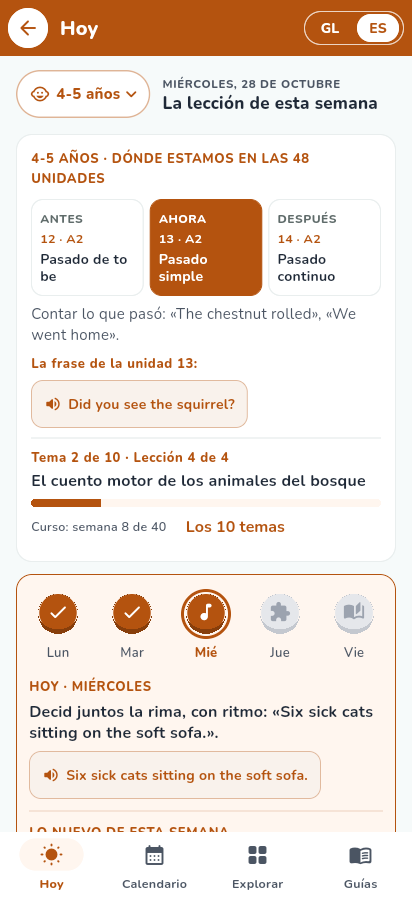
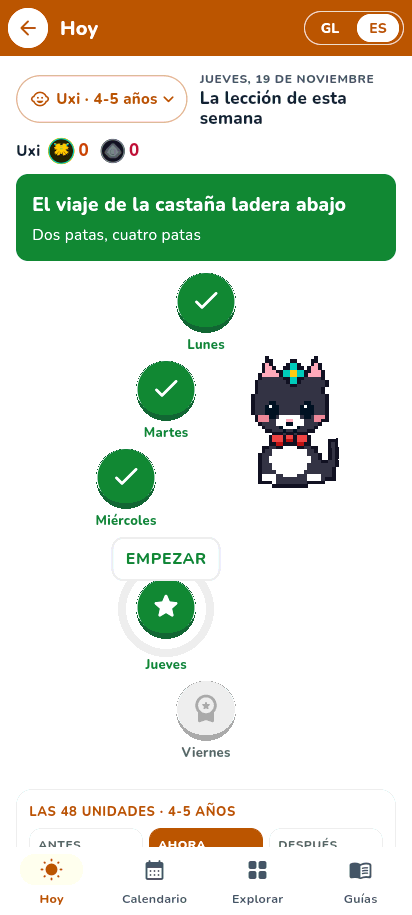
P3.2: capturas de escritorio de Hoy en las cinco edades (gl/es) y pasos de una lección de 4-5 años
Claude-Session: https://claude.ai/code/session_01KaBg344Q3Q8St7kNGvJiVU

diff --git a/docs/ORDENES.md b/docs/ORDENES.md
@@ -104,7 +104,7 @@ La opción A, tal como se le propuso: diez temas propios para 2-3 años, palabra
 - [x] Cada palabra nueva lleva su significado en gl y es y su voz en, gl y es · evidencia: test/features/leccions/leccions_test.dart («todo o inglés das leccións leva o seu significado») y tools/check_voice_coverage.py
 - [x] Todo conecta, en las cinco edades: el STEAM del mes es el eje (se ve en Hoy); el lunes, las palabras nuevas; el martes, el reto con una de ellas; el miércoles, la frase de la unidad de las 48 dicha dentro del STEAM; el jueves, un paso del STEAM; el viernes, el cuento de esa semana con las palabras que salen en él. Ningún día se repite en el curso · evidencia: test/features/leccions/leccions_test.dart («cada mes co seu STEAM e ningún día repetido no curso»)
 - [x] Un gate tumba CI si vuelve a repetirse un tema o una palabra entre edades, o si una semana no trae nada nuevo · evidencia: tools/gen_leccions.py (--check, en tools/gates.sh)
-- [ ] Visto en la app de escritorio por Na casa → Hoy en las cinco edades, en gl y es · evidencia:
+- [x] Visto en la app de escritorio por Na casa → Hoy en las cinco edades, en gl y es · evidencia: docs/capturas/escritorio/hoxe-casa-0-2-gl.png (y -es; también 2-3, 3-4, 4-5 y 5-6 en gl y es; app Linux de escritorio desde main 26c066a0, Claude Code 19/11/2026)
 - [x] Mergeado en main con CI en verde · evidencia: docs/ORDENES.md (PR #39, run 40778207068 en verde, merge 0c7f550f)
 - [x] Cada palabra nueva sale en una actividad de su semana (el lunes, todas; el viernes, las que trae el cuento) · evidencia: tools/gen_leccions.py (revisar: falla si una palabra nueva no sale en ningún día)
 - [x] La unidad de gramática manda en las palabras: en las 128 semanas cuya unidad trabaja una clase de palabra (nombres, verbos, adjetivos), al menos una palabra nueva es de esa clase · evidencia: tools/gen_leccions.py (revisar: falla si una semana no la trae)

diff --git a/docs/PLAN_ANTIGRAVITY.md b/docs/PLAN_ANTIGRAVITY.md
@@ -321,4 +321,5 @@ Base: `6be3d38b`
 | P2.72 | 1cbeab5c | 2026-11-19 | Nada visible: evidencia del merge (PR #55, e6bd68f6) en O-20261119-1; check_registro_commits.py busca los SHA en toda la historia, no solo en la línea principal | check_ordenes, check_registro_commits OK en local sobre main | docs/ORDENES.md, tools/check_registro_commits.py | |
 | P2.92 | 6f9a5602 | 2026-11-19 | Banco TPR: 2.740 de 4.000 piezas con lámina en main (tandas 1-10); tope del gate TPR bajado a 1260 | flutter 3.47.9 y gates en local (ver PR) | tools/tope_tpr_sen_lamina.txt, docs/ORDENES.md (O-20261119-2) | |
 | P2.99 | 113e8c9f | 2026-11-19 | Nada visible: las 608 piezas TPR sin base quedan sin imagen por decisión de Frank (lista cerrada tools/tpr_sin_base_aprobadas.txt); tope TPR 1260 → 652 | check_laminas_leccion --tope-tpr OK (652 de 652); ordenes/registro OK | tools/check_laminas_leccion.py, tools/tpr_sin_base_aprobadas.txt, tools/tope_tpr_sen_lamina.txt, docs/ORDENES.md (O-20261119-3) | |
-| P4.1 | este | 2026-11-19 | Nada visible: papeleo de merges con PR, SHA y run en verde (O-20261028-6, O-20261028-7, O-20261109-2…5, O-20261110-1, O-20261111-3) y criterios de imágenes con su test (O-20261111-2 A6 y C1, O-20261118-1) | check_ordenes y check_registro_commits OK | docs/ORDENES.md | |
+| P4.1 | eda25420 | 2026-11-19 | Nada visible: papeleo de merges con PR, SHA y run en verde (O-20261028-6, O-20261028-7, O-20261109-2…5, O-20261110-1, O-20261111-3) y criterios de imágenes con su test (O-20261111-2 A6 y C1, O-20261118-1) | check_ordenes y check_registro_commits OK | docs/ORDENES.md | |
+| P3.2 | este | 2026-11-19 | Nada nuevo en la app: capturas de escritorio de Na casa → Hoy en las cinco edades, gl y es, y 6 pasos de una lección de 4-5 años con sus imágenes | app Linux de escritorio desde main 26c066a0; check_ordenes OK | docs/capturas/escritorio/hoxe-casa-*.png, docs/capturas/escritorio/paso-4-5-*-gl.png | |
